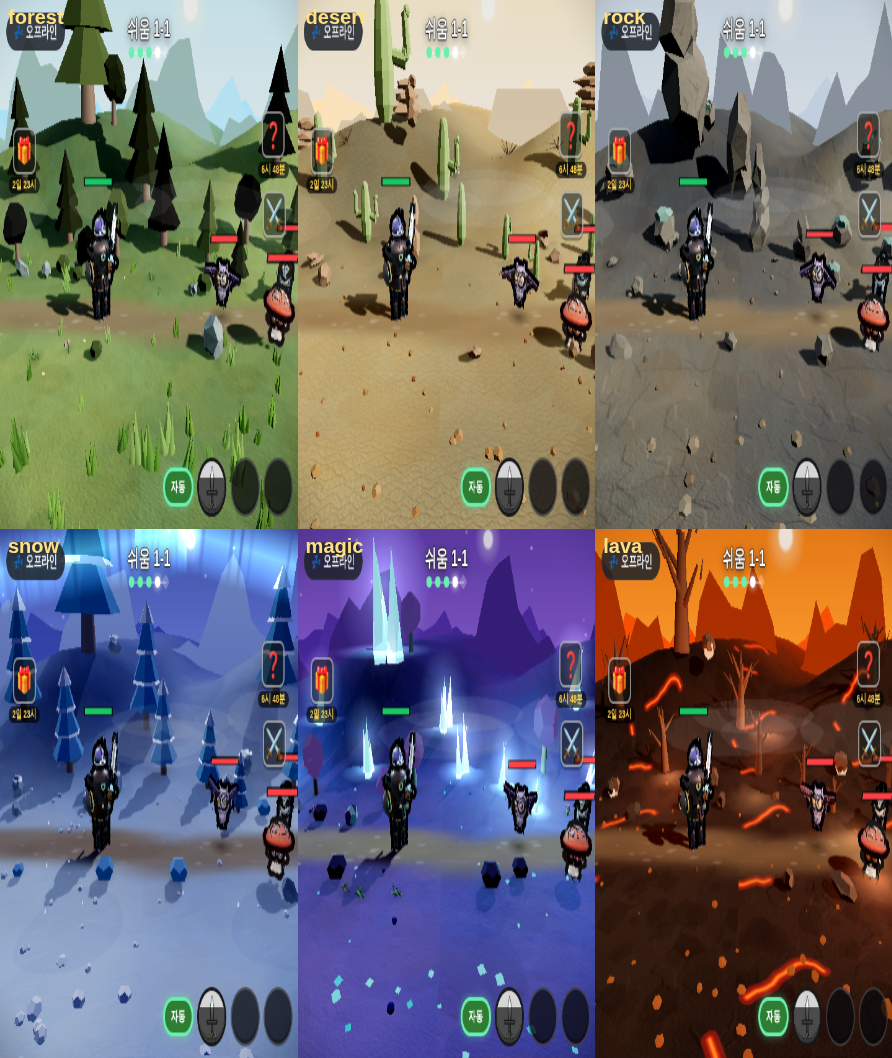
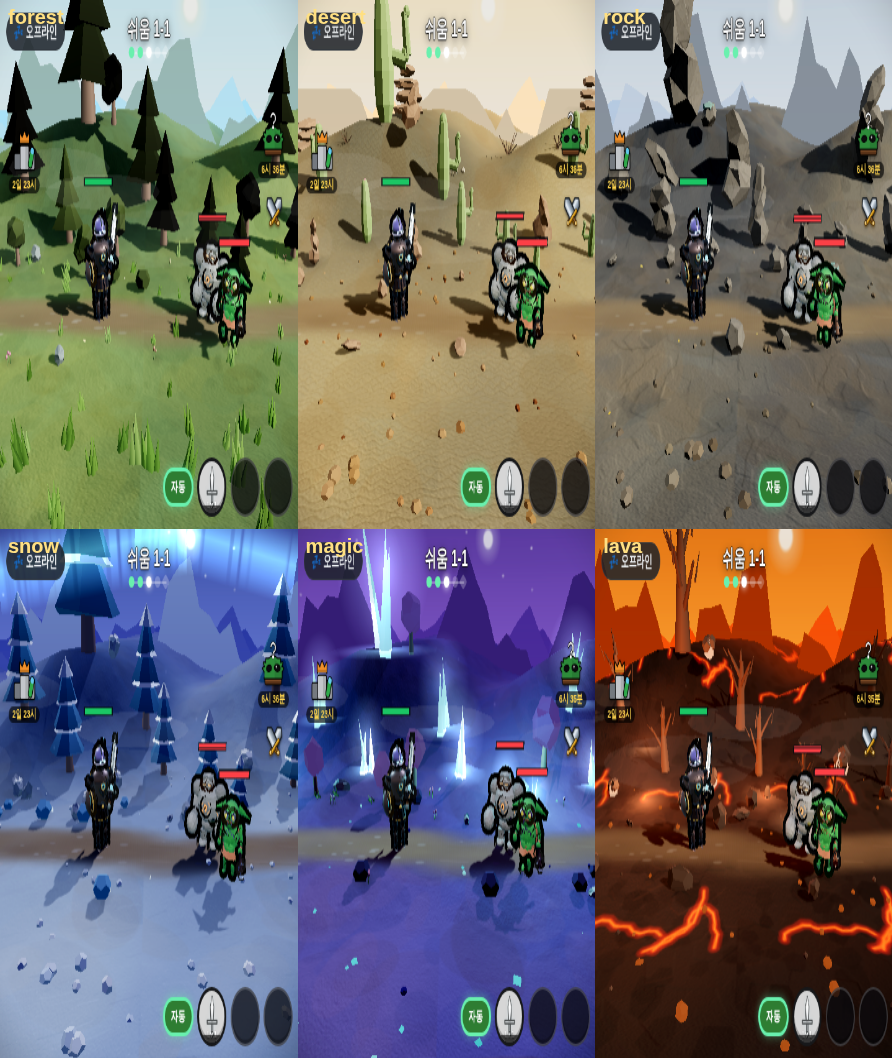
잎을 정다면체에서 떼어냄 — 위치해시 비대칭 변형 + 버텍스 컬러 음영, 구멍 0 (map-props)

diff --git a/web/tools/probe-foliage-sculpt.js b/web/tools/probe-foliage-sculpt.js
@@ -1,0 +1,132 @@
+// 잎 조형(비대칭 변형 + 버텍스 컬러 음영) 실측 — 사용: node probe-foliage-sculpt.js
+// TODO '맵 프롭 퀄리티 업'(slug: map-props) 의 "단순 도형 티가 나는 프롭에 … 비대칭 변형/버텍스 컬러
+// 음영" 검증. 적용 전 침엽수는 **정원뿔 3개**, 활엽수는 **정십이면체 2개**였다.
+//
+// 지표 4종:
+//  ① 비대칭  — 정점의 반경이 한 값에 몰려 있으면 정다면체다. 반경 변동계수(sd/mean)로 잰다.
+//  ② 개체차  — 나무마다 달라야 한다. ⚠ 처음엔 **반경 프로파일의 상관계수**로 쟀는데 잘못된 자였다:
+//              원뿔의 반경은 높이에 따라 줄어드는 게 지배적이라, 노이즈가 얼마나 다르든 두 원뿔의
+//              상관은 자동으로 1에 가깝다(실측 0.9968 로 '복붙'이라 반려됐지만 실제로는 갈려 있었다).
+//              **같은 자리 정점끼리의 반경 차이(RMS)를 평균 반경으로 정규화**해서 본다 — 기반 형상이
+//              공통이든 말든 '노이즈가 실제로 다른가'만 남는다.
+//  ③ 음영    — `color` 속성이 있고 위아래로 실제 기울기가 있어야 한다.
+//  ④ 무결성  — 비인덱스 지오메트리에 **정점 인덱스 기준** 난수를 주면 중복 정점이 제각각 움직여
+//              메시가 갈라진다. 같은 좌표에 있던 정점들이 변형 후에도 같은 자리인지 본다(구멍 검사).
+const { chromium } = require(process.env.PW_PATH || '/opt/node22/lib/node_modules/playwright');
+const INDEX = 'file://' + require('path').resolve(__dirname, '../index.html');
+
+const CV_MIN = 0.055;    // 반경 변동계수 하한 — 정다면체는 0에 가깝다
+const SHADE_MIN = 0.20;  // 버텍스 컬러 위아래 기울기 하한
+const DIFF_MIN = 0.040;  // 개체 간 반경 RMS 차 / 평균반경 — 이보다 작으면 사실상 같은 메시
+
+(async () => {
+    const browser = await chromium.launch({ executablePath: '/opt/pw-browsers/chromium', args: ['--use-gl=angle', '--enable-unsafe-swiftshader'] });
+    const page = await browser.newPage({ viewport: { width: 480, height: 854 } });
+    const errors = [];
+    page.on('pageerror', e => errors.push(String(e)));
+    page.on('console', m => { if (m.type() === 'error') errors.push(m.text()); });
+    await page.goto(INDEX + '?debug=gear&w=sword', { waitUntil: 'load' });
+    await page.waitForFunction(() => typeof Scene3D !== 'undefined' && Scene3D.heroG, null, { timeout: 60000 });
+    await page.waitForTimeout(1500);
+
+    const res = await page.evaluate(() => {
+        const out = { kinds: [], seams: 0, seamWorst: 0, drawGroups: 0 };
+        const collect = (make, label) => {
+            const metrics = [];
+            for (let t = 0; t < 6; t++) {           // 나무 6그루
+                const g = make();
+                g.traverse(m => {
+                    if (!m.isMesh || !m.material || !m.material.vertexColors) return;   // 잎 메시만
+                    const pos = m.geometry.attributes.position, col = m.geometry.attributes.color;
+                    if (!col) { metrics.push({ noColor: true }); return; }
+                    const rs = [], ys = [], cs = [];
+                    for (let i = 0; i < pos.count; i++) {
+                        rs.push(Math.hypot(pos.getX(i), pos.getZ(i)));
+                        ys.push(pos.getY(i));
+                        cs.push(col.getX(i));
+                    }
+                    const mean = rs.reduce((a, b) => a + b, 0) / rs.length;
+                    const sd = Math.sqrt(rs.reduce((a, b) => a + (b - mean) * (b - mean), 0) / rs.length);
+                    // 음영 기울기: 위쪽 30% 정점의 평균 색 − 아래쪽 30%
+                    const idx = ys.map((y, i) => [y, i]).sort((a, b) => a[0] - b[0]).map(p => p[1]);
+                    const q = Math.max(1, Math.floor(idx.length * 0.3));
+                    const loC = idx.slice(0, q).reduce((a, i) => a + cs[i], 0) / q;
+                    const hiC = idx.slice(-q).reduce((a, i) => a + cs[i], 0) / q;
+                    metrics.push({ cv: mean ? sd / mean : 0, shade: hiC - loC, prof: rs.slice(0, 60), n: pos.count });
+                });
+            }
+            out.kinds.push({ label, metrics });
+        };
+        collect(() => Scene3D.makePine(1.2), 'pine');
+        collect(() => Scene3D.makeRoundTree(1.2), 'roundTree');
+
+        // ④ 무결성(구멍 검사) — 변형 **전**에 같은 자리에 있던 정점들이 변형 **후**에도 한 점인가.
+        // 비인덱스 지오메트리는 같은 모서리의 정점이 여러 벌 중복돼 있어서, 변위를 정점 인덱스로 뽑으면
+        // 사본들이 제각각 움직여 메시가 갈라진다. 여기서 직접 재현해 확인한다.
+        {
+            const ref = new THREE.ConeGeometry(0.6, 0.7, 7).toNonIndexed();
+            const rp = ref.attributes.position;
+            const groups = new Map();
+            for (let i = 0; i < rp.count; i++) {
+                const k = Math.round(rp.getX(i) * 1e4) + ',' + Math.round(rp.getY(i) * 1e4) + ',' + Math.round(rp.getZ(i) * 1e4);
+                if (!groups.has(k)) groups.set(k, []);
+                groups.get(k).push(i);
+            }
+            const sc = Scene3D.sculptFoliage(new THREE.ConeGeometry(0.6, 0.7, 7), { amp: 0.16, seed: 12.5 });
+            const sp = sc.attributes.position;
+            let worst = 0, split = 0, shared = 0;
+            for (const idxs of groups.values()) {
+                if (idxs.length < 2) continue;
+                shared++;
+                for (let a2 = 1; a2 < idxs.length; a2++) {
+                    const d = Math.hypot(
+                        sp.getX(idxs[0]) - sp.getX(idxs[a2]),
+                        sp.getY(idxs[0]) - sp.getY(idxs[a2]),
+                        sp.getZ(idxs[0]) - sp.getZ(idxs[a2]));
+                    if (d > worst) worst = d;
+                    if (d > 1e-6) { split++; break; }
+                }
+            }
+            out.seam = { sharedGroups: shared, split, worst };
+        }
+        return out;
+    });
+
+    // 같은 자리 정점끼리의 반경 차이(RMS)를 평균 반경으로 정규화 — 위 ② 참고
+    const rmsDiff = (a, b) => {
+        const n = Math.min(a.length, b.length);
+        if (n < 4) return 1;
+        let s2 = 0, m = 0;
+        for (let i = 0; i < n; i++) { const d = a[i] - b[i]; s2 += d * d; m += a[i]; }
+        m /= n;
+        return m ? Math.sqrt(s2 / n) / m : 1;
+    };
+
+    const fails = [];
+    for (const k of res.kinds) {
+        const ms = k.metrics.filter(m => !m.noColor);
+        if (k.metrics.some(m => m.noColor)) fails.push(`${k.label}: color 속성 없는 잎 메시 — vertexColors 재질인데 속성이 없으면 검게 찍힌다`);
+        if (!ms.length) { fails.push(`${k.label}: 잎 메시를 하나도 못 찾았다`); continue; }
+        const cvMin = Math.min.apply(null, ms.map(m => m.cv));
+        const shMin = Math.min.apply(null, ms.map(m => m.shade));
+        let dMin = Infinity, pairs = 0;
+        for (let i = 0; i < ms.length; i++) for (let j = i + 1; j < ms.length; j++) {
+            if (ms[i].n !== ms[j].n) continue;              // 크기가 다른 단은 비교 대상이 아니다
+            dMin = Math.min(dMin, rmsDiff(ms[i].prof, ms[j].prof));
+            pairs++;
+        }
+        if (!pairs) dMin = 0;
+        console.log(`${k.label.padEnd(10)} 잎메시 ${String(ms.length).padStart(2)}  반경변동계수 min ${cvMin.toFixed(4)}  음영기울기 min ${shMin.toFixed(3)}  개체간 최소차 ${dMin.toFixed(4)} (${pairs}쌍)`);
+        if (cvMin < CV_MIN) fails.push(`${k.label}: 반경 변동계수 ${cvMin.toFixed(4)} < ${CV_MIN} — 아직 정다면체다`);
+        if (shMin < SHADE_MIN) fails.push(`${k.label}: 음영 기울기 ${shMin.toFixed(3)} < ${SHADE_MIN} — 버텍스 컬러가 평평하다`);
+        if (dMin < DIFF_MIN) fails.push(`${k.label}: 개체 간 최소차 ${dMin.toFixed(4)} < ${DIFF_MIN} — 나무가 복붙이다`);
+    }
+    const sm = res.seam || {};
+    console.log(`무결성     공유정점군 ${sm.sharedGroups}  갈라진 군 ${sm.split}  최대 벌어짐 ${(sm.worst || 0).toExponential(2)}`);
+    if (sm.split) fails.push(`변형 후 정점이 갈라진 공유군 ${sm.split}개(최대 ${sm.worst.toFixed(5)}) — 메시에 구멍이 뚫린다`);
+    console.log(`콘솔 에러 ${errors.length}`);
+    if (errors.length) console.log(errors.slice(0, 4).join('\n'));
+    console.log(fails.length ? '\n반려 —\n  ' + fails.join('\n  ') : `\nPASS — 비대칭 ≥ ${CV_MIN} · 음영 ≥ ${SHADE_MIN} · 개체 간 차 ≥ ${DIFF_MIN}`);
+    await browser.close();
+    process.exit(fails.length || errors.length ? 1 : 0);
+})();

diff --git a/web/js/scene3d.js b/web/js/scene3d.js
@@ -1006,7 +1006,10 @@ const Scene3D = {
         this.hills = [mkRidge(this.hillMat, 95, 3.6, 11, -19), mkRidge(this.farHillMat, 120, 2.6, 14, -25)];
 
         // 소품 공유 매테리얼 (바이옴 재구성 시 지오메트리만 버리고 매테리얼은 재사용)
-        this.foliageMat = new THREE.MeshPhongMaterial({ color: 0x33691e, flatShading: true, shininess: 0 });
+        // vertexColors — 잎 지오메트리는 전부 sculptFoliage 를 거쳐 color 속성을 갖는다(makePine·makeRoundTree
+        // 둘뿐이고 둘 다 통과한다). ⚠ 이 재질을 쓰는 새 메시를 만들 땐 반드시 color 속성을 붙일 것 —
+        // 속성 없이 vertexColors 재질을 쓰면 그 메시만 검게 찍힌다.
+        this.foliageMat = new THREE.MeshPhongMaterial({ color: 0x33691e, flatShading: true, shininess: 0, vertexColors: true });
         // 잎 명도 변주 2종 — 나무마다 밝기가 달라 "같은 모델 복붙" 인상과 밤 숲의 "한 덩어리 검은 벽" 문제를 동시에 완화
         this.foliageMatDark = this.foliageMat.clone();
         this.foliageMatLight = this.foliageMat.clone();
@@ -1526,6 +1529,59 @@ const Scene3D = {
         }
     },
 
+    // ---- 프롭 조형: '단순 도형 티' 제거 (TODO '맵 프롭 퀄리티 업' — 비대칭 변형 + 버텍스 컬러 음영) ----
+    // 침엽수는 **정원뿔 3개**, 활엽수는 **정십이면체 2개**였다. 어떤 라이팅을 걸어도 정다면체는 정다면체라
+    // 원경에서 '복붙한 도형'으로 읽힌다(장비 쪽에서 '박스는 어떤 라이팅을 걸어도 박스'로 이미 겪은 벽이다).
+    //  ⑴ **비대칭 변형** — 정점을 반경 방향으로 밀어 실루엣 자체를 울퉁불퉁하게 만든다. 수직 성분은
+    //     절반만 준다(키까지 들쭉날쭉하면 '녹아내린' 인상이 된다).
+    //  ⑵ **버텍스 컬러 음영** — 아래(가지에 가려 빛이 안 드는 안쪽)를 어둡게, 위(하늘 보는 면)를 밝게
+    //     구워 넣는다. 라이트를 안 늘리고 볼륨을 얻는 가장 싼 방법이다.
+    // ⚠ 🚨 **위치 해시로 변위를 뽑는다 — 정점 인덱스로 뽑으면 면이 갈라진다.** flatShading 을 쓰려고
+    //    지오메트리를 비인덱스로 펴 두면 같은 모서리의 정점이 여러 벌 중복된다. 인덱스 기준 난수를 주면
+    //    그 사본들이 제각각 움직여 **메시에 구멍이 뚫린다.** 좌표를 반올림해 해시하면 같은 자리는 늘 같은 값을 받는다.
+    // ⚠ **인스턴스마다 새로 구운 지오메트리에만 쓸 것** — 공유 지오메트리에 쓰면 모든 프롭이 같이 변형된다.
+    sculptFoliage(geo, opt) {
+        const o = opt || {};
+        const amp = o.amp === undefined ? 0.14 : o.amp;
+        // ⚠ 시드를 `Math.random()` 에서 뽑지 말 것 — 전역 RNG 스트림을 **소비**해서, 시드를 고정해 찍는
+        //    대조 캡처(`shot-biomes.js`)의 프롭 배치가 이 함수 호출 수만큼 통째로 밀린다(전/후 비교 불가).
+        //    내부 카운터로 인스턴스마다 다른 시드를 준다 — 결정론적이고 스트림을 안 건드린다.
+        const seed = o.seed === undefined ? (this._sculptSeq = (this._sculptSeq || 0) + 1) * 97.13 : o.seed;
+        const g = geo.index ? geo.toNonIndexed() : geo;
+        if (geo.index) geo.dispose();
+        const pos = g.attributes.position;
+        g.computeBoundingBox();
+        const bb = g.boundingBox;
+        const yMin = bb.min.y, ySpan = Math.max(1e-4, bb.max.y - bb.min.y);
+        const rad = Math.max(bb.max.x - bb.min.x, bb.max.z - bb.min.z) * 0.5 || 1;
+        const hash = (x, y, z) => {
+            const n = Math.sin(Math.round(x * 240) * 12.9898 + Math.round(y * 240) * 78.233 + Math.round(z * 240) * 37.719 + seed) * 43758.5453;
+            return n - Math.floor(n);
+        };
+        const cols = new Float32Array(pos.count * 3);
+        const v = new THREE.Vector3();
+        for (let i = 0; i < pos.count; i++) {
+            v.fromBufferAttribute(pos, i);
+            const t = (hash(v.x, v.y, v.z) - 0.5) * 2;                    // -1..1
+            const t2 = (hash(v.z + 7.1, v.x - 3.3, v.y + 1.7) - 0.5) * 2;
+            const rl = Math.hypot(v.x, v.z);
+            if (rl > 1e-4) {                                              // 꼭짓점(축 위)은 반경 방향이 없다
+                v.x += (v.x / rl) * t * amp * rad;
+                v.z += (v.z / rl) * t * amp * rad;
+            }
+            v.y += t2 * amp * 0.5 * rad;
+            pos.setXYZ(i, v.x, v.y, v.z);
+            // 음영은 **변형 전 바운딩 박스** 기준 높이로 굽는다(변형 후 y로 재면 요철마다 명도가 튄다)
+            const k = Math.min(1, Math.max(0, (v.y - yMin) / ySpan));
+            const sh = 0.60 + 0.48 * Math.pow(k, 0.85);
+            cols[i * 3] = cols[i * 3 + 1] = cols[i * 3 + 2] = sh;
+        }
+        pos.needsUpdate = true;
+        g.setAttribute('color', new THREE.BufferAttribute(cols, 3));
+        g.computeVertexNormals();
+        return g;
+    },
+
     makePine(s, snow) {
         const g = new THREE.Group();
         g.userData.windSway = 0.030;   // 바람에 밑동부터 휘는 식물 (rocks·crystal 은 태그 없음 = 정지)
@@ -1534,7 +1590,7 @@ const Scene3D = {
         trunk.position.y = 0.25 * s;
         g.add(trunk);
         for (let i = 0; i < 3; i++) {
-            const cone = new THREE.Mesh(new THREE.ConeGeometry((0.55 - i * 0.13) * s, 0.62 * s, 7), fm);
+            const cone = new THREE.Mesh(this.sculptFoliage(new THREE.ConeGeometry((0.55 - i * 0.13) * s, 0.62 * s, 7), { amp: 0.16 }), fm);
             cone.position.y = (0.62 + i * 0.4) * s;
             g.add(cone);
             if (snow) { // 설원: 각 단 위에 눈 고깔을 얹음
@@ -1795,9 +1851,9 @@ const Scene3D = {
         const fm = this.foliageMats[Math.random() * 3 | 0]; // 나무별 잎 명도 변주
         const trunk = new THREE.Mesh(new THREE.CylinderGeometry(0.08 * s, 0.12 * s, 0.6 * s, 7), this.trunkMat);
         trunk.position.y = 0.3 * s;
-        const crown = new THREE.Mesh(new THREE.DodecahedronGeometry(0.5 * s, 0), fm);
+        const crown = new THREE.Mesh(this.sculptFoliage(new THREE.DodecahedronGeometry(0.5 * s, 0), { amp: 0.15 }), fm);
         crown.position.y = 0.95 * s;
-        const crown2 = new THREE.Mesh(new THREE.DodecahedronGeometry(0.32 * s, 0), fm);
+        const crown2 = new THREE.Mesh(this.sculptFoliage(new THREE.DodecahedronGeometry(0.32 * s, 0), { amp: 0.17 }), fm);
         crown2.position.set(0.28 * s, 0.75 * s, 0.1 * s);
         g.add(trunk, crown, crown2);
         return g;

diff --git a/web/TODO.md b/web/TODO.md
@@ -1582,6 +1582,7 @@
   - 진행 메모(2026-08-16, 8차): 4라운드 진행, **슬라임 9/10 첫 통과** (3차 채점 기준: 골렘7 박쥐7.5 임프7.5 늑대7 고블린6 버섯6). 적용됨: 광택 젤리 슬라임(Phong+핵+스커트), 박쥐 몸통·다리·반투명 막날개·성난 눈, 늑대 근육 덩어리·갈기 술·다크 슬레이트·등 새들·브러시 꼬리, 골렘 플랫셰이딩 파셋+마그마 결정 코어+이끼+굵은 하완·주먹, 고블린 주먹·곤봉 정합·관절 구·러스트 악센트, 임프 얼굴·발톱·크림슨, 버섯 절대색 레드 갓+성난 눈+팔, 공통 눈 킷(음영 흰자+발광 홍채), 챕터색 lerp 폐지(보호색 금지), 블롭 섀도 0.34. **다음 라운드 힌트(마지막 비평가 지적)**: ① 고블린 여전히 초록-초록 가독성 부족(림라이트/채도 추가 분리 필요) ② 버섯 눈이 '주황 단추' — 홍채·눈썹 재설계 ③ 늑대 얼굴 눈썹 부유·종이접기 인상 ④ 골렘 프리미티브 티 ⑤ 박쥐 날개 지골 보강. 캡처는 web/tools/shot-enemies.js (walking 중간 프레임 주의), 채점 프롬프트는 절대 기준 10점제+질주·걷기 포즈 정상 고지.
 - [ ] **맵 프롭 퀄리티 업 (사용자 지시)**: 바이옴 소품(나무·바위·풀·크리스탈·구조물 등)의 품질을 올릴 것 — 단순 도형 티가 나는 프롭에 베벨/비대칭 변형/버텍스 컬러 음영/캔버스 텍스처를 적용하고, 바람에 흔들리는 풀·나뭇잎, 반짝이는 크리스탈 같은 미세 애니메이션으로 살아있는 맵으로. 폴리싱 영역①(지형/배경) 채점과 연계 — 프롭이 채점 발목을 잡지 않는 수준까지. 인스턴싱 유지(성능).
   - **진행 메모(2026-08-18 3D 스트림 — '미세 애니메이션' 절반 착수, 커밋 1개 · 도구 2종 신설 `tools/probe-wind.js`·`tools/shot-biomes.js`)**: ⓐ **먼저 쟀다: 맵은 완전히 정지해 있었다.** 움직이는 건 구름과 불씨(`embers`)뿐이고 풀 한 포기, 나뭇잎 하나 안 흔들렸다 — 항목이 말한 '살아있는 맵'의 정반대다. 조형·스캐터는 앞 세션들이 이미 상당히 올려 뒀으므로(근경 스캐터 3레이어·악센트 5%·랜드마크·베벨 프롭) **비어 있던 건 애니메이션 축**이었다. ⓑ **풀 = 정점 셰이더 바람**(`Scene3D.windShade`). 풀은 InstancedMesh 1드로우콜이라 CPU 로 흔들 수 없다 — 190~240개 행렬을 매 프레임 다시 쓰면 '인스턴싱 유지(성능)' 요구를 정면으로 어긴다. `onBeforeCompile` 로 정점을 민다: 위상은 **인스턴스마다 다르게**(r128 은 정점 셰이더에 `instanceMatrix` 를 주므로 그 이동 성분에서 뽑는다 — 별도 속성 불필요), 변위는 **로컬 높이에 비례**(밑동 고정 — 통째로 미끄러지면 '떠 있는 스티커'가 된다), 주파수는 1.6Hz+2.9Hz 두 개를 겹쳐 기계적 왕복을 없앴다. ⓒ **나무·꽃·양치류 = 그룹 회전**. 그룹 원점이 곧 밑동이라 `rotation.z` 만 흔들면 땅에 박힌 채 휜다. `userData.windSway` 를 단 것만 대상(침엽수 0.030·활엽수 0.034·죽은나무 0.020·꽃 0.075·양치류 0.055). ⓓ **크리스탈 맥동**(항목 원문 '반짝이는 크리스탈') — `crystalMat.emissiveIntensity` + 할로/글로우 스프라이트 불투명도를 1.15Hz 로 같이 호흡시킨다. 재질 공유라 1회 갱신으로 전부 걸린다. ⓔ **선인장은 일부러 안 흔든다** — 다육 기둥이 휘면 고무로 읽힌다. 처음엔 0.010 을 줬는데 검증기가 '사막이 흔들린다'로 잡아냈고 **지표가 옳고 내 판단이 틀렸다**. ⓕ **실측(`probe-wind.js`, 바이옴 6종)**: forest 소품 28개 0.0097~0.2018 rad p-p · **위상 28종 전부 다름** · 풀 재질 6개 유니폼 전진 ok / snow 12개 · magic 16개 + 크리스탈 발광 p-p 0.236 / lava 12개 / **desert·rock 은 흔들리는 소품 0개**(광물만). 회귀 `probe-screens-errors` 31/31 콘솔 에러 0. 드로우콜 불변(스캐터는 그대로 InstancedMesh). ⓖ 🚨 **이 항목에서 값 주고 배운 계측 함정 3개 — 다음 세션은 픽셀 차분으로 진폭을 재지 말 것.** 처음에 '연속 프레임 화면 변화량'으로 짰다가 **세 번 연속 없는 결함**을 만들었다: ㉠ **인게임 카메라는 가만히 있어도 매 프레임 0.034 움직인다** → 배경 전체가 시차로 흘러 바람 대상 0개인 사막이 0.664 로 나왔다(소품을 하나씩 꺼 가며 이분해서 찾았다). ㉡ **테마 전환 직후 수십 프레임의 과도 구간**(페이드·하늘 페인트·그림자맵 워밍업)이 있어, 워밍업 없이 재면 forest 가 **적용 전 6.228 / 적용 후 6.218** 로 나온다 — 바람이 아예 없는 것처럼 보였다. ㉢ **한 페이지에서 바이옴을 이어 재면 앞 바이옴이 뒤를 오염시킨다**(forest 다음 desert 0.187~0.233, 단독 측정은 0.025). 셋을 다 잡고도 magic 이 0.191/0.092 로 흔들렸다(소프트웨어 GL + 위상 표집 편차). → **지표를 픽셀에서 구동 상태로 바꿨다**(회전각 p-p · 셰이더 시간 유니폼 전진 · 발광 p-p). 결정론적이고 요구사항과 1:1 이다. 상세는 `probe-wind.js` 머리말에 전부 적어 뒀다. ⓗ **[ ] 유지 — 남은 것**: ⑴ 조형 축(베벨/비대칭 변형/버텍스 컬러 음영/캔버스 텍스처)은 아직 손대지 않았다 ⑵ **위 배경 관찰의 `embers` 뭉텅이**(초원 발광 먼지가 블룸과 겹쳐 우측에 허연 덩어리) 크기·밀도 재조정 ⑶ 폴리싱 영역① 비평가 채점. **도구**: `shot-biomes.js` 는 6바이옴을 **시드 고정**으로 한 장에 굽는다(프롭 배치가 전부 `Math.random` 이라 시드 없이는 전/후 대조가 성립하지 않는다).
+  - **진행 메모(2026-08-18 3D 스트림 — 조형 축(비대칭 변형 + 버텍스 컬러 음영) 착수, 커밋 1개 · 검증기 1종 신설 `tools/probe-foliage-sculpt.js`)**: ⓘ **잎이 정다면체였다.** 침엽수는 정원뿔 3개(`ConeGeometry`), 활엽수는 정십이면체 2개(`DodecahedronGeometry`) — 항목이 말한 '단순 도형 티'의 본체다. 장비 쪽에서 이미 겪은 벽과 같은 계열이다('박스는 어떤 라이팅을 걸어도 박스'). `Scene3D.sculptFoliage()` 신설: ⑴ 정점을 **반경 방향으로** 밀어 실루엣 자체를 울퉁불퉁하게(수직 성분은 절반만 — 키까지 들쭉날쭉하면 '녹아내린' 인상) ⑵ **버텍스 컬러 음영**을 구워 넣는다(아래=가지에 가려 빛 안 드는 안쪽 어둡게, 위=하늘 보는 면 밝게). 라이트를 안 늘리고 볼륨을 얻는 가장 싼 방법. ⓙ 🚨 **변위는 반드시 위치 해시로 뽑을 것 — 정점 인덱스로 뽑으면 메시에 구멍이 뚫린다.** flatShading 을 쓰려고 지오메트리를 비인덱스로 펴 두면 같은 모서리 정점이 여러 벌 중복돼 있어, 인덱스 기준 난수를 주면 사본들이 제각각 움직여 면이 갈라진다. 좌표를 반올림해 해시하면 같은 자리는 늘 같은 값을 받는다. `probe-foliage-sculpt.js` 의 ④ 항목이 이걸 회귀 검사한다(현재 **공유정점군 9개 · 갈라진 군 0 · 최대 벌어짐 1.57e-16**). ⓚ **시드를 `Math.random()` 에서 뽑지 않는다** — 전역 RNG 스트림을 소비하면 시드 고정 대조 캡처(`shot-biomes.js`)의 프롭 배치가 호출 수만큼 통째로 밀려 전/후 비교가 깨진다. 내부 카운터(`_sculptSeq`)를 쓴다. ⓛ **`foliageMat` 에 `vertexColors: true` 를 켰다** — 이 재질을 쓰는 곳은 `makePine`·`makeRoundTree` 둘뿐이고 둘 다 `sculptFoliage` 를 거치니 안전하다. ⚠ **이 재질로 새 메시를 만들 땐 반드시 `color` 속성을 붙일 것** — 속성 없이 vertexColors 재질을 쓰면 그 메시만 검게 찍힌다. ⓜ **실측(`probe-foliage-sculpt.js`)**: 침엽수 잎메시 18개 — 반경 변동계수 min 0.897 · 음영 기울기 min 0.457 · 개체 간 최소차 0.0807(153쌍) / 활엽수 12개 — 0.255 · 0.328 · 0.1054(66쌍). ⚠ **개체차를 상관계수로 재지 말 것** — 원뿔 반경은 높이에 따라 줄어드는 게 지배적이라 노이즈가 아무리 달라도 두 원뿔의 상관은 자동으로 1에 가깝다(첫 판 0.9968 로 '복붙'이라 **오반려**됐는데 실제로는 갈려 있었다). 같은 자리 정점끼리의 **반경 RMS 차 / 평균반경**으로 봐야 기반 형상이 공통이어도 노이즈 차이만 남는다. ⓝ **`embers` 뭉텅이는 이미 고쳐져 있었다(위 배경 관찰은 낡음).** 실측: 불투명도 0.041~0.258(의도 범위), 크기 0.052~0.083, 화면 안 16개 중 40px 이내 근접쌍 2개뿐 — '허연 뭉텅이'가 아니다. 앞 세션이 `update` 의 덮어쓰기를 곱셈으로 고치면서 같이 해소된 것이다(코드 주석에 경위가 남아 있다). **이 관찰을 좇아 다시 손대지 말 것.** ⓞ **회귀**: `probe-wind` 6바이옴 PASS(조형 교체 후에도 바람 정상) · `probe-screens-errors` **31/31 콘솔 에러 0** · 드로우콜 불변(스캐터는 그대로 InstancedMesh). ⓟ **[ ] 유지 — 남은 것**: ⑴ **캔버스 텍스처**(잎·바위에 절차적 텍스처) 미착수 ⑵ 바위·구조물 계열은 아직 정다면체 기반(`sculptFoliage` 를 광물용 파라미터로 확장하면 그대로 쓸 수 있다) ⑶ 폴리싱 영역① 비평가 채점.
   - 진행 메모(3D 스트림 세션, 2026-08-17 16:2x — **1건 처리, 항목은 [ ] 유지**): 이 항목에서 처리한 건 **'HP 타격감' 3차 메모가 남긴 배경 관찰**(초원 바이옴 발광 먼지가 블룸과 겹쳐 화면 우측에 허연 뭉텅이로 뜬다) 하나다. **실체는 크기·밀도 문제가 아니라 덮어쓰기 버그였다** — `buildEmbers`가 '큰 개체가 렌즈 얼룩으로 읽힌다'(비평가 7.1 17번)는 지적을 받아 `opacity`를 0.22로 내려놨는데, `update`가 매 프레임 `opacity = 0.55 + sin*0.3`으로 **통째로 덮어써서 그 튜닝이 죽은 코드**였다. 가산 합성 + 블룸이라 차이가 그대로 화면에 나온다. 스프라이트별 `userData.baseOpacity`를 두고 반짝임을 거기에 **곱하도록** 고쳤다. 신설 `tools/probe-embers.js`(불씨만 껐다 켜서 같은 프레임 diff — 밝기 상승 픽셀 수·최대 상승·가로 4등분 분포) 실측: opacity **0.253~0.850(의도의 3.86배) → 0.049~0.230(1.05배)**, +40 이상 밀어올린 픽셀 **4 → 0**, 최대 밝기 상승 **56.7 → 18.3**. **남은 것은 항목 본문 그대로**(프롭 베벨/비대칭/버텍스 컬러/캔버스 텍스처, 바람에 흔들리는 풀·나뭇잎, 반짝이는 크리스탈 — 인스턴싱 유지)로 손도 안 댔다.
   - 🚫 **다음 세션 경고 — ProChar 재질에는 `convertSRGBToLinear`(또는 신설 `Scene3D.srgbC`)를 쓰면 안 된다.** 이번 세션이 HP바·그을음 데칼에서 '머티리얼 색이 출력에서 sRGB 인코딩돼 팔레트보다 한 단계 밝게 나온다'를 찾아 고쳤는데(해당 항목 메모 참조), **같은 논리를 캐릭터 재질에 적용하면 안 된다**. `ProChar.DEEP`(0x04050a)·`TONE.mail`(0x0e1319) 등은 **이미 그 인코딩과 조명까지 다 얹힌 화면값을 목표 대역(0.10~0.18)에 맞춰 `probe-hero-dark.js`로 스윕해 채택한 값**이다(prochar.js 248~268줄 주석에 스윕 표가 있다). 여기에 변환을 한 번 더 태우면 **이중 보정으로 캐릭터가 새까맣게 죽는다.** 구분 기준: **정확한 sRGB 팔레트값을 재현해야 하는 UI/데칼 색 → 변환한다 / 조명 후 화면값을 보고 경험적으로 고른 재질색 → 건드리지 않는다.**
 - [ ] **이모지/저품질 아이콘을 코드 생성 AAA급 아이콘으로 전면 교체**: 현재 게임 전반의 아이콘(재화 👑🔨💎🎫🧪⚙🥚, 스킬 18종 오브 속 이모지, 펫 25종·탈것 15종 타일 이모지, 던전/탭/버튼 아이콘 등)이 이모지 그대로라 허접해 보인다. **외부 에셋 금지 제약을 지키면서** AAA 모바일 게임 아이콘 수준으로 교체한다. 방법: ① **캔버스 프로시저럴 아이콘 파이프라인** — Canvas 2D로 그라디언트·베벨·스펙큘러 하이라이트·내부 그림자·림 라이트·외곽선을 겹쳐 그린 아이콘을 dataURL로 생성해 캐시(부팅 시 1회 생성, `IconGen` 모듈 신설 등). 코인=금화 동전(테두리 세레이션+광택), 젬=컷 보석(파셋 면+굴절 하이라이트), 해머=금속 망치, 알=등급색 알(반점+광택), 티켓/물약/태엽도 동일 품질 ② 펫·탈것·적 아이콘은 **기존 3D 스냅샷 파이프라인**(장비 썸네일이 이미 쓰는 방식)을 재사용해 3D 모델을 아이콘 각도로 찍는 것도 허용 — 이모지보다 확실히 고급이면 어느 쪽이든 OK ③ 스킬 아이콘은 속성 모티프(화살/화염/번개 등)를 캔버스로 그려 오브 배경 그라디언트+글로우와 합성 ④ 교체 범위: 상단바/버튼/그리드/팝업/토스트 등 **화면에 보이는 모든 아이콘** — 다만 한 런에 다 못 하면 재화 → 스킬 → 펫/탈것 → 기타 순으로 나눠 커밋 ⑤ **아이콘 크기 확대 (사용자 지시)**: 아이콘이 담기는 프레임(셀/버튼/pill)의 크기·위치는 원본 레이아웃 비율대로 두되, **프레임 안에서 아이콘 그림이 꽉 차게(프레임의 85~95%) 키워 가독성을 확보**할 것 — 지금처럼 프레임 대비 조그맣게 떠 있는 아이콘 금지. 전 화면 공통 적용(상단바 재화, 장비 셀, 스킬 오브, 펫 타일, 버튼 속 아이콘 전부) ⑥ 검증: Playwright 스크린샷 + 비평가 채점 'AAA 모바일 게임 아이콘으로 믿을 수 있는가' 9/10 통과제 + 아이콘이 프레임에 꽉 차 보이는지 육안 확인, 콘솔 에러 없음.
